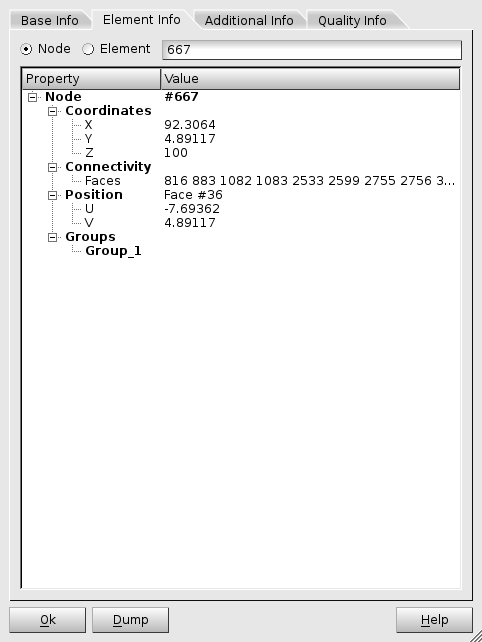
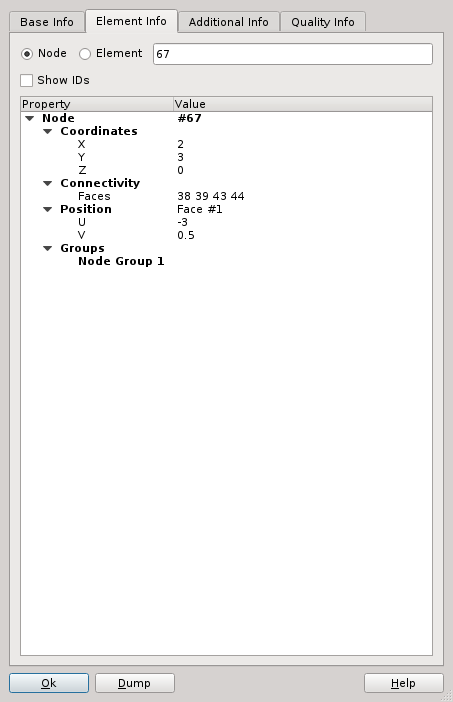
Fix crash of SALOME_TESTS/Grids/smesh/bugs_13/N9    (SMDS_VolumeTool.cxx)
Add "Show IDs" check box to Mesh Information dlg

Avoid warning in Choose Entity dialog when no entities are selected,
disable [OK] button instead

diff --git a/src/SMESHGUI/SMESH_msg_en.ts b/src/SMESHGUI/SMESH_msg_en.ts
@@ -7423,6 +7423,10 @@ as they are of improper type:
         <translation>Element</translation>
     </message>
     <message>
+        <source>SHOW_IDS</source>
+        <translation>Show IDs</translation>
+    </message>
+    <message>
         <source>BUT_DUMP_MESH</source>
         <translation>&amp;Dump</translation>
     </message>

diff --git a/src/SMESHGUI/SMESHGUI_MeshInfo.h b/src/SMESHGUI/SMESHGUI_MeshInfo.h
@@ -52,17 +52,19 @@
 
 class QAbstractButton;
 class QButtonGroup;
+class QCheckBox;
 class QContextMenuEvent;
+class QGridLayout;
 class QLabel;
 class QLineEdit;
 class QPushButton;
 class QTabWidget;
 class QTextBrowser;
-class QGridLayout;
-class SMESH_Actor;
-class SMDS_MeshNode;
 class SMDS_MeshElement;
+class SMDS_MeshNode;
+class SMESHGUI_IdPreview;
 class SMESHGUI_SpinBox;
+class SMESH_Actor;
 
 class ExtraWidget;
 
@@ -157,6 +159,8 @@ public:
   void         clear();
   virtual void saveInfo( QTextStream &out ) = 0;
 
+  gp_XYZ       getGravityCenter( const SMDS_MeshElement* e ) { return gravityCenter(e); }
+
 protected:
   struct XYZ
   {
@@ -168,6 +172,7 @@ protected:
     double x() const  { return myX; }
     double y() const  { return myY; }
     double z() const  { return myZ; }
+    operator gp_XYZ() const { return gp_XYZ( myX, myY, myZ ); }
   };
   typedef QMap< int, QList<int> > Connectivity;
 
@@ -382,19 +387,22 @@ private slots:
   void deactivate();
   void modeChanged();
   void idChanged();
+  void idPreviewChange(bool);
   void showItemInfo( int );
   void showItemInfo( const QString& );
   void dump();
 
 private:
-  QTabWidget*        myTabWidget;
-  SMESHGUI_MeshInfo* myBaseInfo;
-  QButtonGroup*      myMode;
-  QLineEdit*         myID;
-  SMESHGUI_ElemInfo* myElemInfo;   
-  SMESHGUI_AddInfo*  myAddInfo;
-  SMESHGUI_CtrlInfo* myCtrlInfo;
-  SMESH_Actor*       myActor;
+  QTabWidget*                      myTabWidget;
+  SMESHGUI_MeshInfo*               myBaseInfo;
+  QButtonGroup*                    myMode;
+  QLineEdit*                       myID;
+  QCheckBox*                       myIDPreviewCheck;
+  SMESHGUI_IdPreview*              myIDPreview;
+  SMESHGUI_ElemInfo*               myElemInfo;   
+  SMESHGUI_AddInfo*                myAddInfo;
+  SMESHGUI_CtrlInfo*               myCtrlInfo;
+  SMESH_Actor*                     myActor;
   Handle(SALOME_InteractiveObject) myIO;
 };
 

diff --git a/src/SMESH_SWIG/smeshBuilder.py b/src/SMESH_SWIG/smeshBuilder.py
@@ -1469,7 +1469,7 @@ class Mesh:
                     errText = "code %s" % -err.code
                 if errText: errText += ". "
                 errText += err.comment
-                if allReasons != "":allReasons += "\n"
+                if allReasons: allReasons += "\n"
                 if ok:
                     allReasons += '-  "%s"%s - %s' %(err.algoName, shapeText, errText)
                 else:
@@ -1507,7 +1507,7 @@ class Mesh:
                     reason = ("For unknown reason. "
                               "Developer, revise Mesh.Compute() implementation in smeshBuilder.py!")
                     pass
-                if allReasons != "":allReasons += "\n"
+                if allReasons: allReasons += "\n"
                 allReasons += "-  " + reason
                 pass
             if not ok or allReasons != "":

diff --git a/src/SMESHGUI/SMESHGUI_IdPreview.h b/src/SMESHGUI/SMESHGUI_IdPreview.h
@@ -55,6 +55,14 @@ public:
   void SetPointsData( SMDS_Mesh* theMesh, const TColStd_MapOfInteger & theNodesIdMap );
   void SetElemsData ( const std::vector<int> &  theElemsIdMap,
                       const std::list<gp_XYZ> & theGrCentersXYZ );
+  template< class INT_ITER, class XYZ_ITER >
+  void SetElemsData ( INT_ITER theElemsBegin, INT_ITER theElemsEnd,
+                      XYZ_ITER theGrCentersBegin, XYZ_ITER theGrCentersEnd )
+  {
+    std::vector<int> elemsIds( theElemsBegin, theElemsEnd );
+    std::list<gp_XYZ> gcXYZ( theGrCentersBegin, theGrCentersEnd );
+    SetElemsData( elemsIds, gcXYZ );
+  }
   void SetPointsLabeled( bool theIsPointsLabeled, bool theIsActorVisible = true );
 
   void AddToRender     ( vtkRenderer* theRenderer );

diff --git a/src/SMESHGUI/SMESHGUI_Selection.h b/src/SMESHGUI/SMESHGUI_Selection.h
@@ -71,8 +71,8 @@ public:
   virtual int             nbChildren( int ) const;
   virtual bool            isContainer( int ) const;
 
-  // parameters got from actor return nothing if an actor is not visible
-  virtual QList<QVariant> elemTypes( int ) const;
+  // parameters got from actor, return nothing if an actor is not visible
+  virtual QList<QVariant> elemTypes( int, bool ) const; // == objElemTypes w/o actor
   virtual QList<QVariant> labeledTypes( int ) const;
   virtual QString         displayMode( int ) const;
   virtual QString         shrinkMode( int ) const;

diff --git a/src/SMESHGUI/SMESHGUI_DisplayEntitiesDlg.h b/src/SMESHGUI/SMESHGUI_DisplayEntitiesDlg.h
@@ -40,6 +40,7 @@ public:
 private:
   void InverseEntityMode( unsigned int& theOutputMode,
                           unsigned int theMode );
+  void updateButtons();
 
 private slots:
   void              onOk();
@@ -51,6 +52,7 @@ private:
   unsigned int myEntityMode;
   SMESH_Actor *myActor;
   int myNbCheckedButtons;
+  int myNbTypes;
   QCheckBox* my0DElemsTB;
   QCheckBox* myEdgesTB;
   QCheckBox* myFacesTB;
